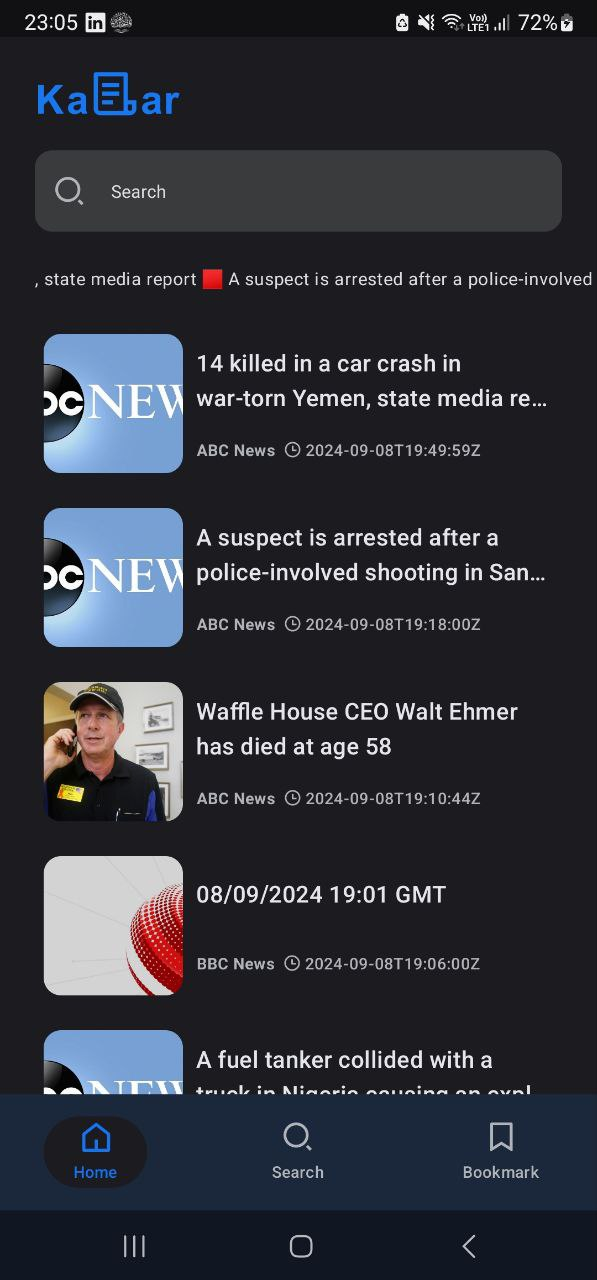
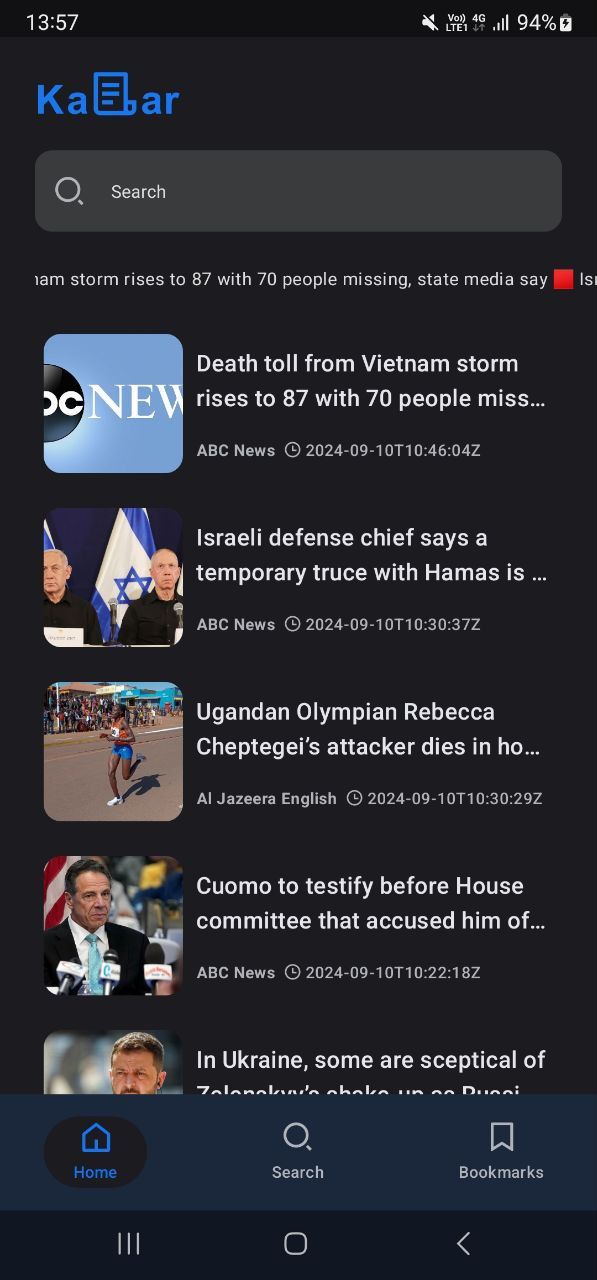
image editing

diff --git a/app/src/main/java/com/example/newsappandroid/presentation/newsNavigator/NewsNavigator.kt b/app/src/main/java/com/example/newsappandroid/presentation/newsNavigator/NewsNavigator.kt
@@ -40,7 +40,7 @@ fun NewsNavigator() {
         listOf(
             BottomNavigationItem(icon = R.drawable.ic_home, text = "Home"),
             BottomNavigationItem(icon = R.drawable.ic_search, text = "Search"),
-            BottomNavigationItem(icon = R.drawable.ic_bookmark, text = "Bookmark"),
+            BottomNavigationItem(icon = R.drawable.ic_bookmark, text = "Bookmarks"),
         )
     }
     val navController = rememberNavController()
